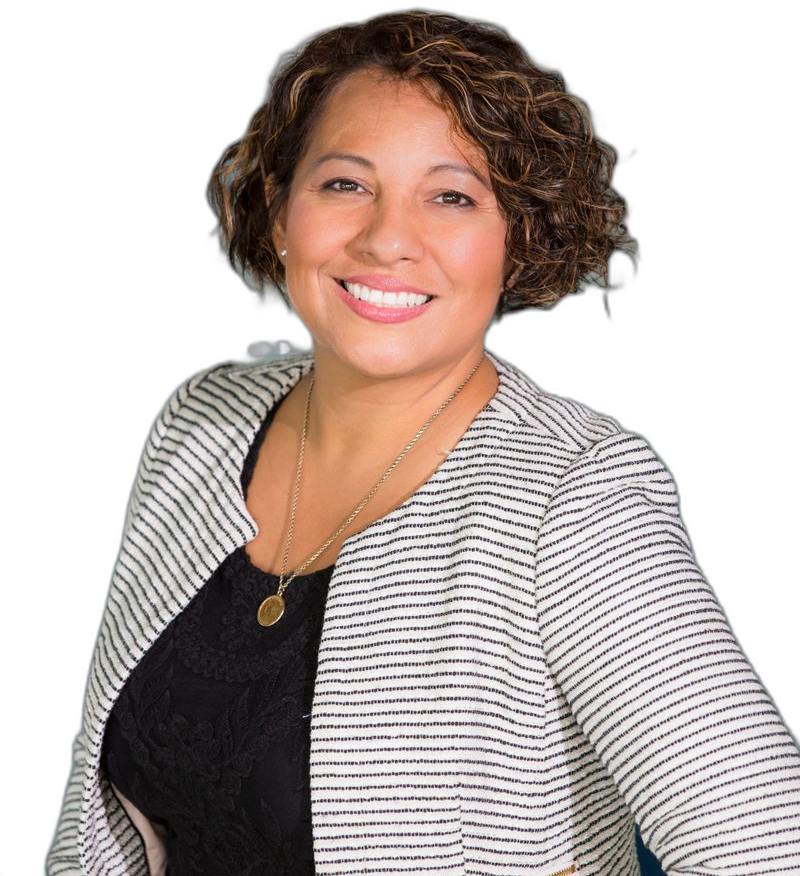
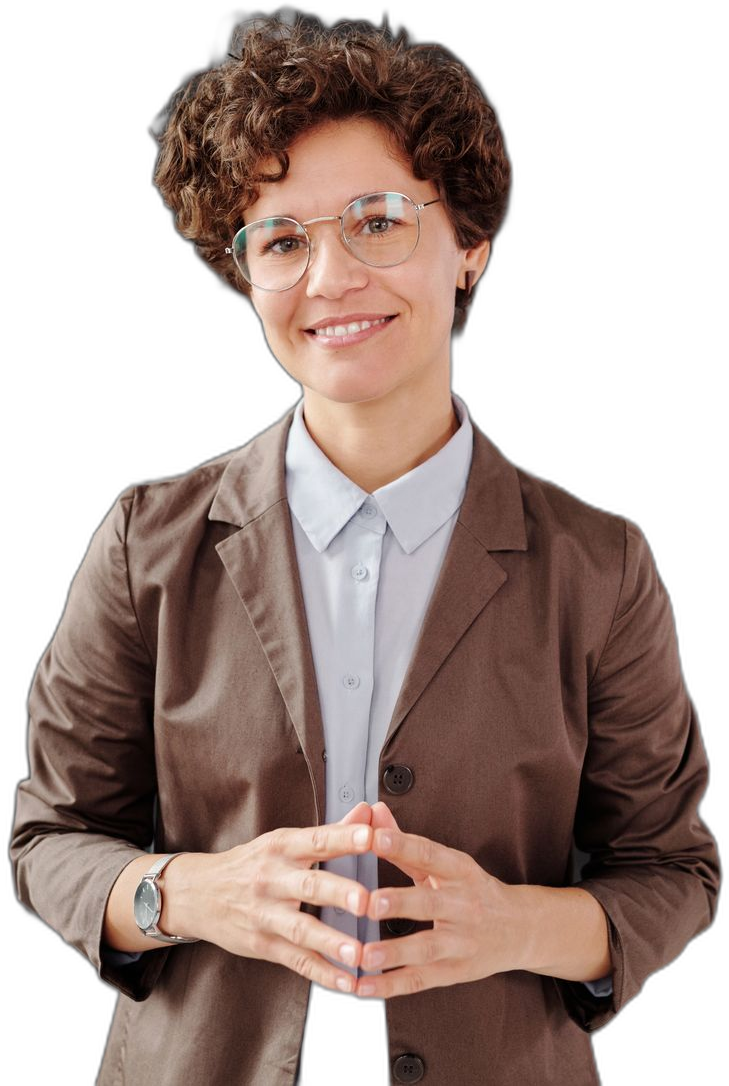
Update hero image dimensions and alt text in HomeHero component; replace hero image with a new version for improved representation.

diff --git a/src/components/public/home/home-hero.tsx b/src/components/public/home/home-hero.tsx
@@ -73,8 +73,8 @@ export function HomeHero() {
               <Image
                 src={heroImage.src}
                 alt={heroImage.alt}
-                width={800}
-                height={876}
+                width={729}
+                height={1086}
                 priority
                 sizes="(max-width: 768px) 70vw, 45vw"
                 className="h-auto w-full object-contain object-bottom drop-shadow-[0_24px_48px_rgba(26,43,94,0.12)]"

diff --git a/src/components/public/home/data/home.data.ts b/src/components/public/home/data/home.data.ts
@@ -11,7 +11,7 @@ export const heroSecondaryCta = "Watch Video";
 
 export const heroImage = {
   src: "/hero-student.png",
-  alt: "Smiling student learning on her phone",
+  alt: "Confident learner ready for digital education",
 } as const;
 
 export const homeStats = [